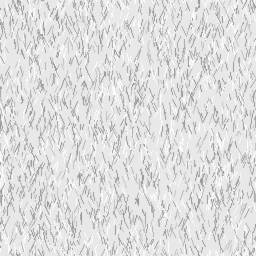
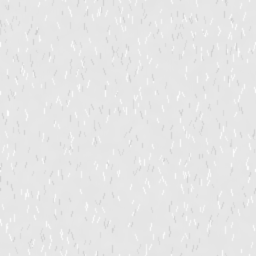
Squishygeddon: a cleaner lawn
Soft mottled grass in a checkerboard of cells, lighting from the top,
a shaded path and bush line, and a picket fence along the bottom.

Claude-Session: https://claude.ai/code/session_01KjbiH1Gxo3FA48ifQDakKd

Changed region(s): [[0.0, 0.0, 1.0, 1.0], [0.9375, 0.0, 1.0, 0.0625], [0.4375, 0.0, 0.5, 0.0312]]

diff --git a/practice.js b/practice.js
@@ -3,7 +3,7 @@
 /* ---------- Practice: defend the garden from squishies; earn coins by matching words ----------
    Positions are in cells: squishies walk from x = COLS (right) towards x = 0 (left). */
 const Practice = (() => {
-  const ROWS = 6, COLS = 9, PADL = .75, PADR = .6;   // a strip for the lawnmowers on the left, bushes on the right
+  const ROWS = 6, COLS = 9, PADL = .75, PADR = .6, PADB = .34;   // mowers' path left, bushes right, picket fence below   // a strip for the lawnmowers on the left, bushes on the right
   const START_MONEY = 150, MATCH_COINS = 25, FREEZE_SECS = 5;
   // the artist's weapon set (art/weapons). kind: shoot = bullets along the row; beam = slows everything in front; ring = a sonic ring
   // that knocks the whole row back; lob = lobbed shells (Solar Blast anywhere, Miner along its row); mine = explodes when touched;
@@ -330,8 +330,8 @@ const Practice = (() => {
     stage.style.width = (rot ? innerHeight : innerWidth) + 'px';
     stage.style.height = (rot ? innerWidth : innerHeight) + 'px';
     const box = ui.garden;
-    cell = Math.max(24, Math.floor(Math.min(box.clientWidth / (COLS + PADL + PADR), box.clientHeight / ROWS)));
-    OX = Math.round(cell * PADL); W = OX + cell * COLS + Math.round(cell * PADR); H = cell * ROWS;
+    cell = Math.max(24, Math.floor(Math.min(box.clientWidth / (COLS + PADL + PADR), box.clientHeight / (ROWS + PADB))));
+    OX = Math.round(cell * PADL); W = OX + cell * COLS + Math.round(cell * PADR); H = cell * ROWS + Math.round(cell * PADB);
     const dpr = Math.min(devicePixelRatio || 1, 2);
     cv.width = Math.round(W * dpr); cv.height = Math.round(H * dpr);
     cv.style.width = W + 'px'; cv.style.height = H + 'px';
@@ -358,39 +358,45 @@ const Practice = (() => {
       g.translate(x, y); g.scale(scale, scale); g.fillStyle = g.createPattern(im, 'repeat'); g.fillRect(0, 0, w / scale + 1, h / scale + 1);
       g.restore();
     };
-    const gs = (cell * 2) / 256;   // one grass tile spans two cells
-    // the lawn
+    const gs = (cell * 2.4) / 256, LH = cell * ROWS;   // one grass tile spans a couple of cells; LH = the lawn's height
+    const shade = (hex, f) => { const n = parseInt(hex.slice(1), 16); const ch = sh => Math.max(0, Math.min(255, Math.round(((n >> sh) & 255) * f))); return `rgb(${ch(16)},${ch(8)},${ch(0)})`; };
+    // the lawn: a soft checkerboard of cells, like a mown lawn
     for (let r = 0; r < ROWS; r++) {
       const on = S.spec.rows.includes(r);
-      g.fillStyle = on ? wd.lanes[r % 2] : wd.soil[r % 2];
-      g.fillRect(OX, r * cell, cell * COLS, cell);
-      texture(on ? grass : soil, OX, r * cell, cell * COLS, cell, gs);
-      if (!on) continue;
-      g.fillStyle = 'rgba(255,255,255,.08)';   // a soft mown-stripe edge
-      g.fillRect(OX, r * cell, cell * COLS, 2);
-      g.strokeStyle = 'rgba(255,255,255,.12)'; g.lineWidth = 1;
-      for (let c = 1; c < COLS; c++) { g.beginPath(); g.moveTo(OX + c * cell, r * cell + 4); g.lineTo(OX + c * cell, r * cell + cell - 4); g.stroke(); }
+      for (let c = 0; c < COLS; c++) {
+        const base = on ? wd.lanes[0] : wd.soil[0];
+        g.fillStyle = shade(base, (r + c) % 2 ? 1 : .93);
+        g.fillRect(OX + c * cell, r * cell, cell, cell);
+      }
     }
-    // the path on the left
-    g.fillStyle = wd.key === 'tutorial' || wd.key === 'earth' ? '#D9D2C4' : wd.soil[0]; g.fillRect(0, 0, OX, H);
-    texture(path, 0, 0, OX, H, cell / 128);
-    g.fillStyle = 'rgba(0,0,0,.12)'; g.fillRect(OX - 3, 0, 3, H);
-    // bushes on the right, where the squishies come from
+    texture(grass, OX, 0, cell * COLS, LH, gs);
+    for (let r = 0; r < ROWS; r++) if (!S.spec.rows.includes(r)) { g.fillStyle = 'rgba(80,50,20,.28)'; g.fillRect(OX, r * cell, cell * COLS, cell); texture(soil, OX, r * cell, cell * COLS, cell, gs); }
+    // light from the top, a little darker at the bottom
+    const lg = g.createLinearGradient(0, 0, 0, LH); lg.addColorStop(0, 'rgba(255,255,255,.10)'); lg.addColorStop(.5, 'rgba(255,255,255,0)'); lg.addColorStop(1, 'rgba(0,0,0,.10)');
+    g.fillStyle = lg; g.fillRect(OX, 0, cell * COLS, LH);
+    // the path on the left, with its own shadow edge
+    g.fillStyle = wd.key === 'tutorial' || wd.key === 'earth' ? '#D9D2C4' : shade(wd.soil[0], 1.05); g.fillRect(0, 0, OX, LH);
+    texture(path, 0, 0, OX, LH, cell / 128);
+    const pg = g.createLinearGradient(OX - cell * .18, 0, OX, 0); pg.addColorStop(0, 'rgba(0,0,0,0)'); pg.addColorStop(1, 'rgba(0,0,0,.22)'); g.fillStyle = pg; g.fillRect(OX - cell * .18, 0, cell * .18, LH);
+    // bushes on the right, where the squishies come from, with a shadow they cast on the lawn
     const right = OX + cell * COLS;
-    g.fillStyle = wd.lanes[1]; g.fillRect(right, 0, W - right, H); texture(grass, right, 0, W - right, H, gs);
+    g.fillStyle = shade(wd.lanes[0], .8); g.fillRect(right, 0, W - right, LH);
+    const bg2 = g.createLinearGradient(right - cell * .5, 0, right, 0); bg2.addColorStop(0, 'rgba(0,0,0,0)'); bg2.addColorStop(1, 'rgba(0,0,0,.18)'); g.fillStyle = bg2; g.fillRect(right - cell * .5, 0, cell * .5, LH);
     let seed = 11; const rand = () => (seed = (seed * 9301 + 49297) % 233280) / 233280;
     if (bush) {
-      for (let y = -cell * .3; y < H + cell * .2; y += cell * .62) {
-        const w = cell * (1.2 + rand() * .5); g.drawImage(bush, right - cell * .15 + rand() * cell * .25, y - w * .2, w, w);
-      }
-      if (wd.key !== 'tutorial' && wd.key !== 'earth') {   // other worlds: the bushes take the planet's colour
-        g.save(); g.beginPath(); g.rect(right - cell * .2, 0, W - right + cell * .2, H); g.clip(); g.globalCompositeOperation = 'color'; g.fillStyle = wd.lanes[0]; g.fillRect(0, 0, W, H); g.restore();
-      }
+      for (let y = -cell * .4; y < LH + cell * .2; y += cell * .55) { const w = cell * (1.35 + rand() * .5); g.drawImage(bush, right - cell * .3 + rand() * cell * .25, y - w * .2, w, w); }
+      for (let y = -cell * .2; y < LH; y += cell * .7) { const w = cell * (1.1 + rand() * .4); g.drawImage(bush, right + cell * .05 + rand() * cell * .2, y - w * .2, w, w); }
+      if (wd.key !== 'tutorial' && wd.key !== 'earth') { g.save(); g.beginPath(); g.rect(right - cell * .3, 0, W - right + cell * .3, LH); g.clip(); g.globalCompositeOperation = 'color'; g.fillStyle = wd.lanes[0]; g.fillRect(0, 0, W, H); g.restore(); }
     }
+    // the picket fence along the bottom
+    const fence = lawnImg('fence');
+    g.fillStyle = shade(wd.soil[1], .9); g.fillRect(0, LH, W, H - LH);
+    if (fence) { const fh = H - LH + cell * .22, fw = fh * fence.naturalWidth / fence.naturalHeight; g.fillStyle = 'rgba(0,0,0,.18)'; g.fillRect(0, LH, W, cell * .1); for (let x = -fw * .3; x < W; x += fw) g.drawImage(fence, x, LH - cell * .22, fw, fh); }
+    const vg = g.createLinearGradient(0, LH - cell * .15, 0, LH); vg.addColorStop(0, 'rgba(0,0,0,0)'); vg.addColorStop(1, 'rgba(0,0,0,.14)'); g.fillStyle = vg; g.fillRect(OX, LH - cell * .15, cell * COLS, cell * .15);
     // little flowers, same places every time
     seed = 7;
     for (let i = 0; i < 40; i++) {
-      const x = OX + rand() * cell * COLS, y = rand() * H, col = ['#FFF0F5', '#FFE066', '#FFFFFF', '#FFB3C6'][i % 4];
+      const x = OX + rand() * cell * COLS, y = rand() * LH, col = ['#FFF0F5', '#FFE066', '#FFFFFF', '#FFB3C6'][i % 4];
       if (!S.spec.rows.includes(Math.floor(y / cell))) continue;
       if (wd.deco === 'flowers') { g.fillStyle = col; g.beginPath(); g.arc(x, y, cell * .05, 0, 7); g.fill(); g.fillStyle = '#FFD23F'; g.beginPath(); g.arc(x, y, cell * .02, 0, 7); g.fill(); }
       else if (wd.deco === 'craters') { g.fillStyle = 'rgba(0,0,0,.12)'; g.beginPath(); g.ellipse(x, y, cell * .12, cell * .07, 0, 0, 7); g.fill(); g.fillStyle = 'rgba(255,255,255,.12)'; g.beginPath(); g.ellipse(x, y - cell * .02, cell * .1, cell * .05, 0, 0, 7); g.fill(); }
@@ -541,7 +547,7 @@ const Practice = (() => {
     const im = lawnImg('mower');
     g.save(); g.translate(x, y);
     if (running) { g.rotate(Math.sin(S.t * 40) * .06); g.translate(0, Math.sin(S.t * 60) * 1.5); }
-    if (im) { const w = s * .82, h = w * im.naturalHeight / im.naturalWidth; g.drawImage(im, -w * .55, s * .28 - h, w, h); }
+    if (im) { const w = s * .98, h = w * im.naturalHeight / im.naturalWidth; g.drawImage(im, -w * .55, s * .34 - h, w, h); }
     else { g.fillStyle = '#C4242E'; rr(g, -s * .3, -s * .1, s * .5, s * .25, s * .06); g.fill(); g.fillStyle = '#222'; g.beginPath(); g.arc(-s * .2, s * .18, s * .09, 0, 7); g.arc(s * .12, s * .18, s * .09, 0, 7); g.fill(); }
     g.restore();
   }

diff --git a/sw.js b/sw.js
@@ -1,6 +1,6 @@
 // Offline support. Always tries the network first so updates appear straight
 // away; falls back to the saved copy when there is no connection.
-const CACHE = 'latin-v36';
+const CACHE = 'latin-v37';
 const CORE = ['./', 'index.html', 'app.css', 'app.js', 'vocab.js', 'memory.js', 'phrases.js', 'effects.js', 'practice.js', 'hammer.js', 'sync.js', 'manifest.webmanifest', ...["blaster1.png", "blaster2.png", "blaster3.png", "brain1.png", "brain2.png", "brain3.png", "freezeray1.png", "freezeturret1.png", "freezeturret2.png", "freezeturret3.png", "handy1.png", "handy2.png", "handy3.png", "mine1.png", "mine2.png", "mine3.png", "miner1.png", "miner2.png", "miner3.png", "plasma1.png", "proj_bullet.png", "proj_ice.png", "proj_lava.png", "proj_ring.png", "proj_rock.png", "shield1.png", "shield2.png", "shield3.png", "solar1.png", "sonic1.png", "sonic2.png", "sonic3.png"].map(a => 'art/weapons/' + a), ...['grass', 'soil', 'path', 'mower', 'bush', 'fence'].map(a => 'art/lawn/' + a + '.png'), 'art/banners/squishygeddon.jpg', 'art/banners/hammer.jpg', 'rig.js', ...["blaster1.json", "blaster1.png", "blaster3.json", "blaster3.png", "freezeray1.json", "freezeray1.png", "freezeturret2.json", "freezeturret2.png", "freezeturret3.json", "freezeturret3.png", "handy1.json", "handy1.png", "handy3.json", "handy3.png", "mine1.json", "mine1.png", "mine2.json", "mine2.png", "mine3.json", "mine3.png", "miner1.json", "miner1.png", "miner2.json", "miner2.png", "miner3.json", "miner3.png", "solar1.json", "solar1.png", "sonic1.json", "sonic1.png", "sonic2.json", "sonic2.png", "sonic3.json", "sonic3.png"].map(a => 'art/rigs/' + a), 'icons/apple-touch-icon.png', 'icons/icon-192.png', 'icons/icon-512.png', 'icons/favicon-32.png'];
 const FILES = ['./', 'index.html', 'app.css', 'app.js', 'vocab.js', 'memory.js', 'phrases.js', 'effects.js', 'practice.js', 'hammer.js', 'sync.js',
   'manifest.webmanifest',
